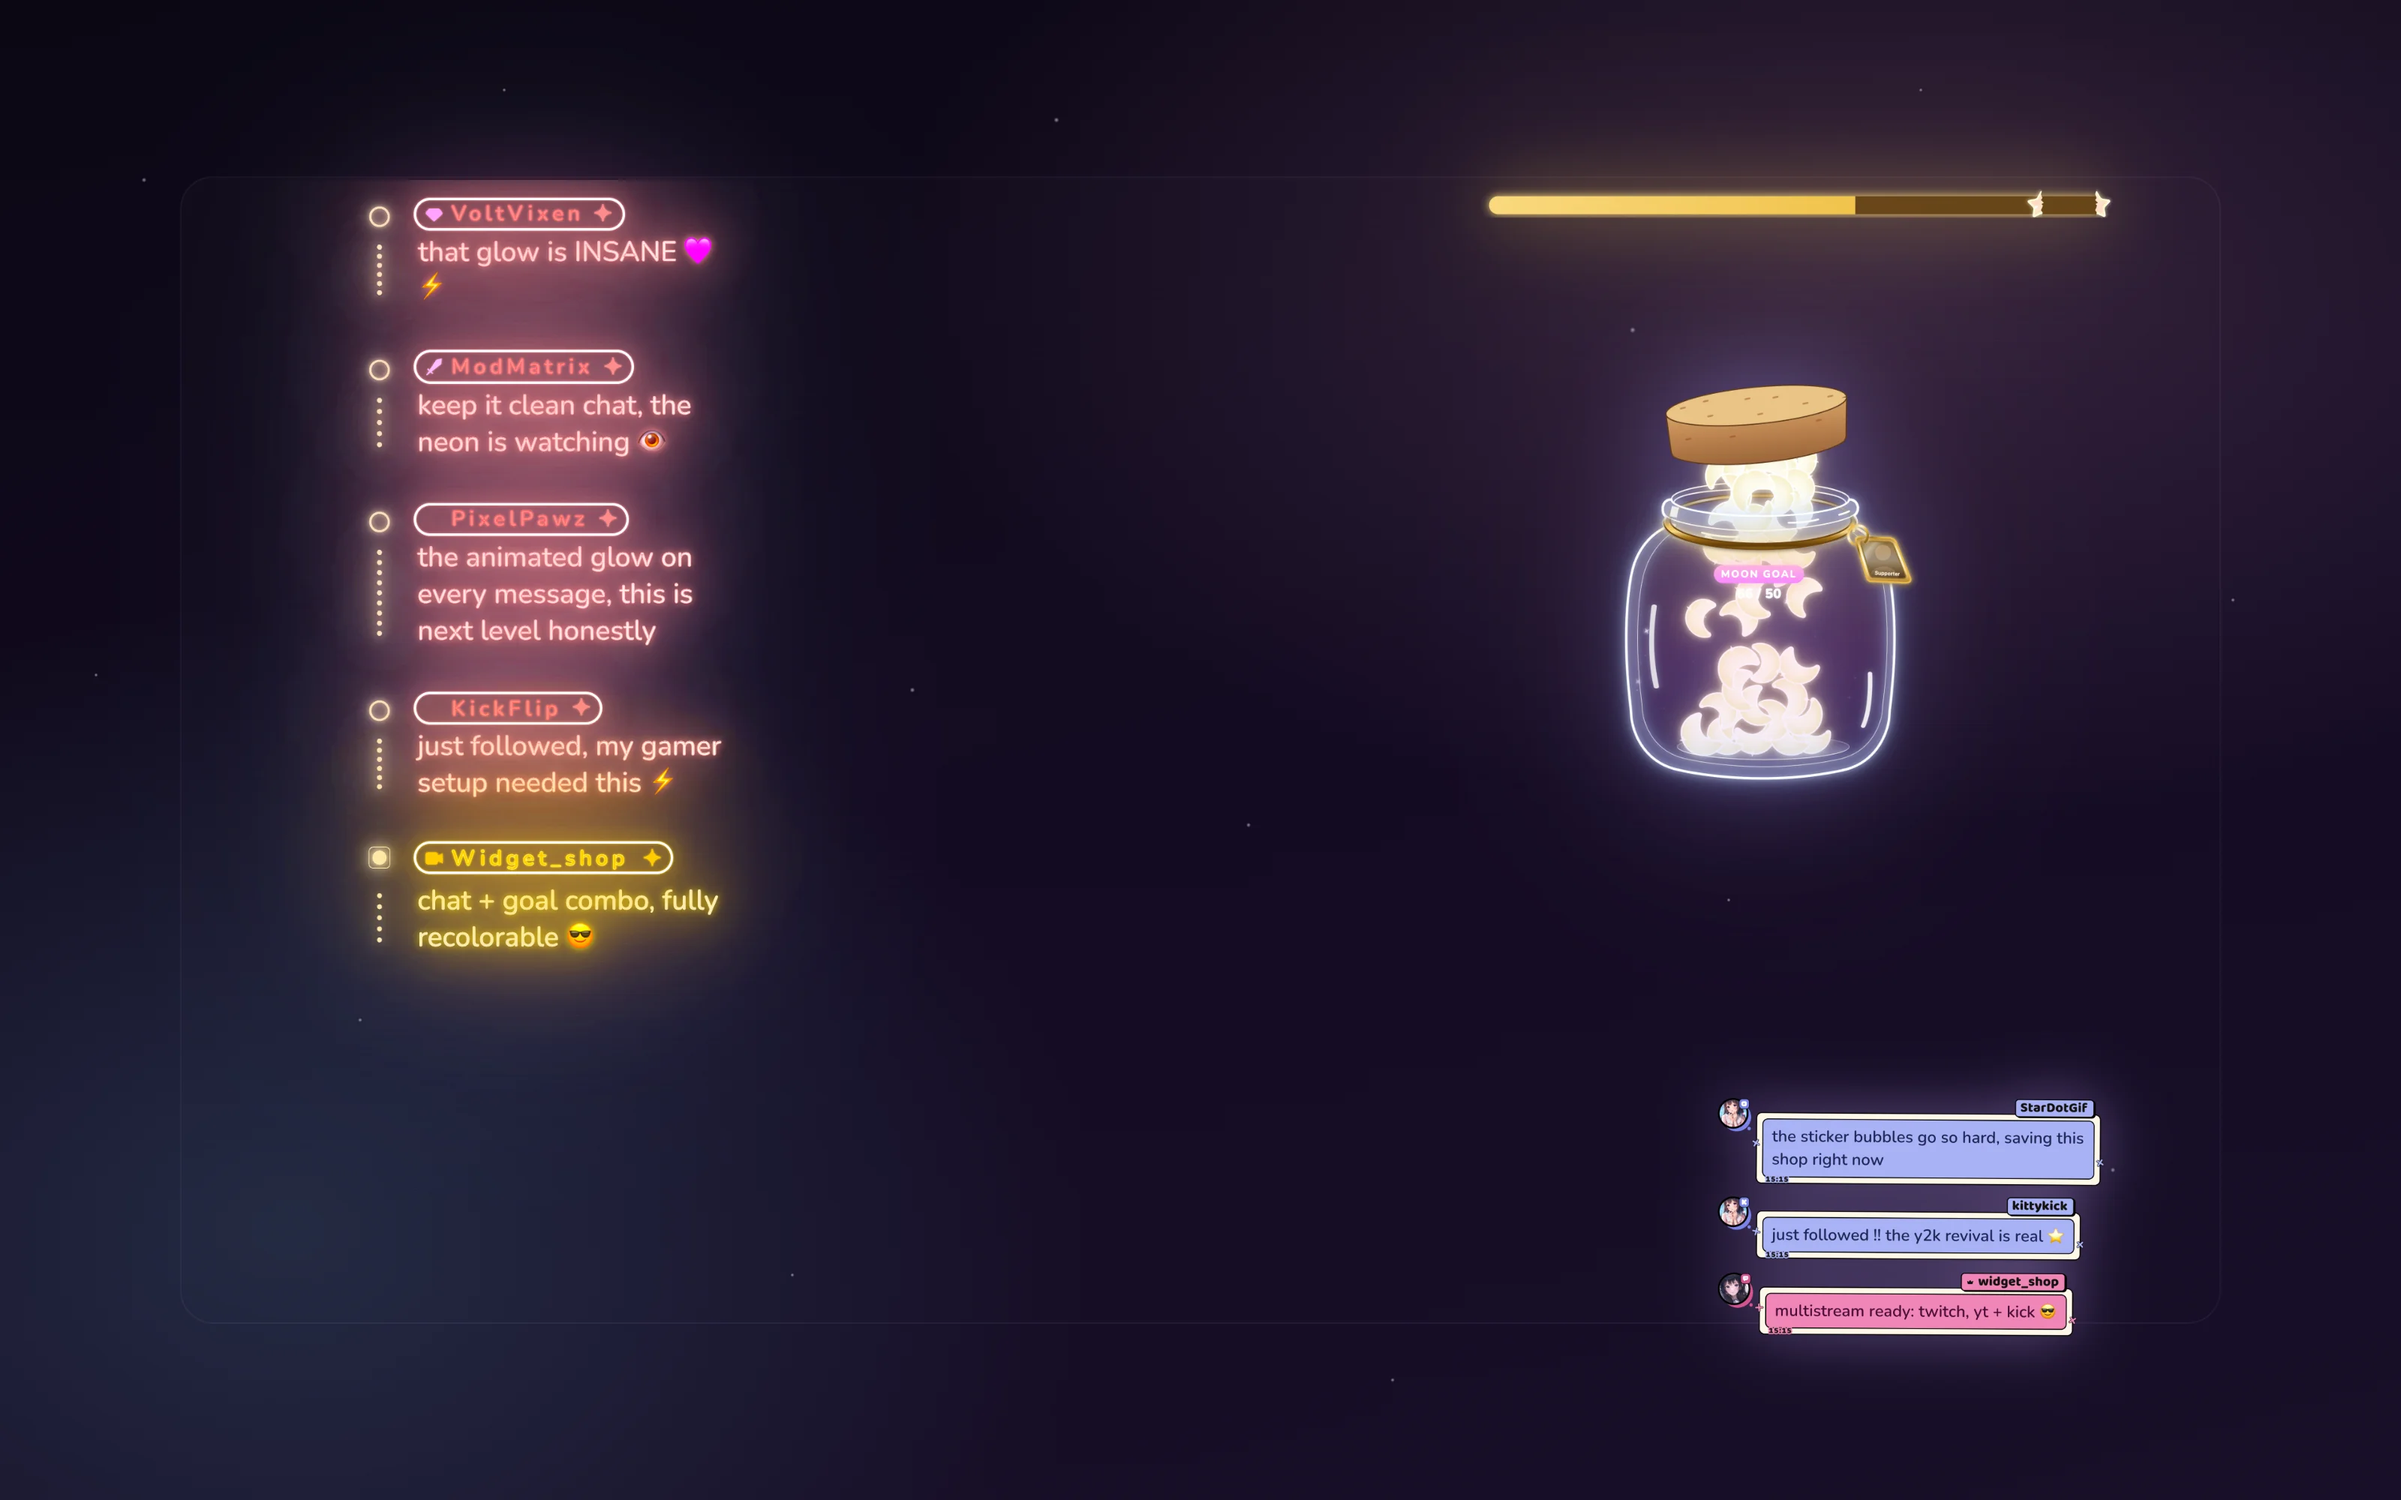
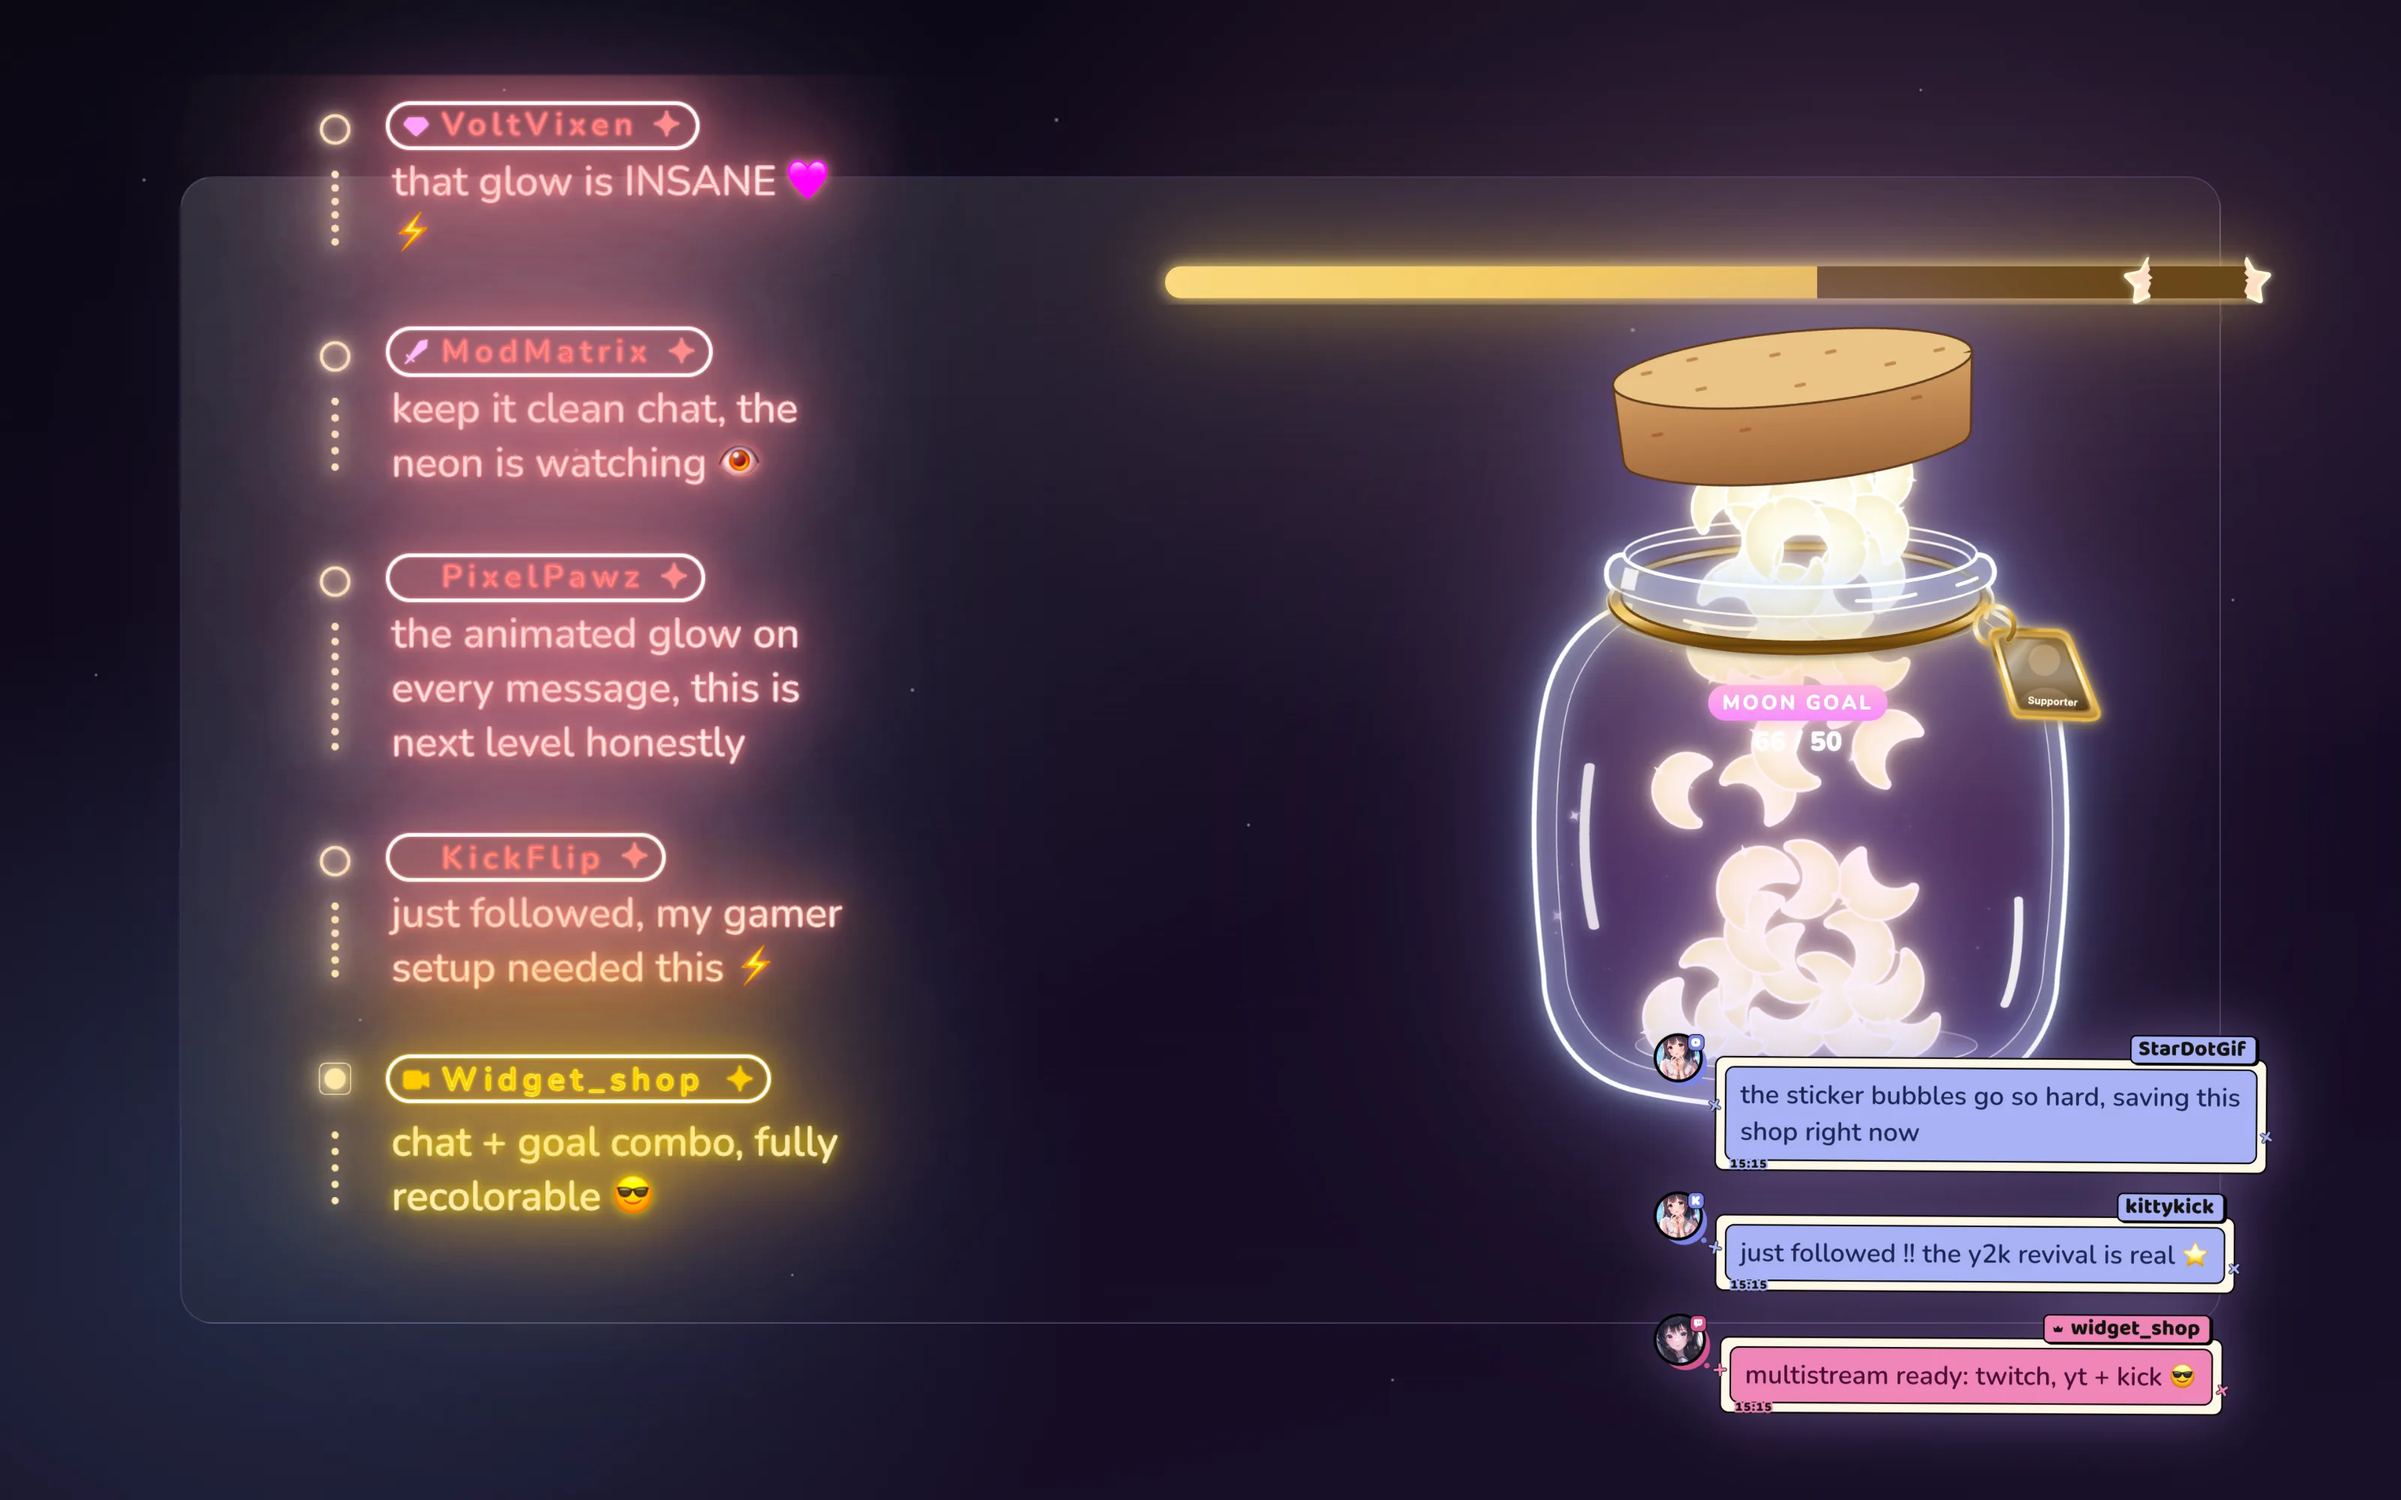
Enlarge hero widgets to fill the composite frame
Chat, jar, star bar and y2k widgets were only ~25% of the canvas.
Cropped their transparent PNG padding and resized/repositioned so
neon chat spans full height on the left, jar sits centered right,
star bar spans above it, and y2k tucks into the bottom-right corner
with a slight overlap. Bumped gameplay panel contrast so it reads
as a stream, not empty space.

diff --git a/hero/hero.html b/hero/hero.html
@@ -49,10 +49,10 @@
     width: 1360px;
     height: 765px; /* 16:9 */
     transform: translate(-50%, -50%);
-    border: 1px solid rgba(183, 157, 242, 0.14);
+    border: 1px solid rgba(183, 157, 242, 0.18);
     border-radius: 22px;
-    background: linear-gradient(155deg, rgba(255,255,255,0.025), rgba(255,255,255,0) 60%);
-    opacity: 0.5;
+    background: linear-gradient(155deg, rgba(255,255,255,0.14), rgba(255,255,255,0) 60%);
+    opacity: 1;
     overflow: hidden;
   }
   .gameplay::before {
@@ -75,45 +75,45 @@
   }
   .widget img { display: block; width: 100%; height: 100%; object-fit: contain; }
 
-  /* neon chat + goal — large, left-center, hot pink/cyan glow */
+  /* neon chat + goal — star of the image, full-height left column, hot pink/cyan glow */
   #neon {
-    left: 150px;
-    top: 120px;
-    width: 523px;
-    height: 760px;
+    left: 80px;
+    top: 50px;
+    width: 604px;
+    height: 900px;
     filter:
       drop-shadow(0 0 34px rgba(240, 80, 154, 0.45))
       drop-shadow(0 0 70px rgba(127, 230, 255, 0.22));
   }
 
-  /* star goal bar — top right */
+  /* star goal bar — spans the top right, above the jar */
   #star {
-    left: 970px;
-    top: 112px;
-    width: 460px;
-    height: 48px;
+    left: 760px;
+    top: 161px;
+    width: 760px;
+    height: 44px;
     filter:
       drop-shadow(0 0 22px rgba(243, 199, 82, 0.55))
       drop-shadow(0 0 46px rgba(243, 199, 82, 0.25));
   }
 
-  /* moon jar goal — right */
+  /* moon jar goal — right of center, vertically centered, glow behind it */
   #jar {
-    left: 990px;
-    top: 196px;
-    width: 460px;
-    height: 460px;
+    left: 975px;
+    top: 215px;
+    width: 450px;
+    height: 570px;
     filter:
-      drop-shadow(0 0 32px rgba(153, 153, 255, 0.42))
-      drop-shadow(0 0 64px rgba(242, 166, 216, 0.2));
+      drop-shadow(0 0 46px rgba(153, 153, 255, 0.5))
+      drop-shadow(0 0 90px rgba(242, 166, 216, 0.26));
   }
 
-  /* y2k chat — small bottom-right vibe hint */
+  /* y2k chat — bottom-right corner, slightly overlapping the jar */
   #y2k {
-    left: 1130px;
-    top: 692px;
-    width: 320px;
-    height: 220px;
+    left: 1100px;
+    top: 687px;
+    width: 420px;
+    height: 263px;
     filter:
       drop-shadow(0 0 20px rgba(200, 170, 255, 0.4));
   }
